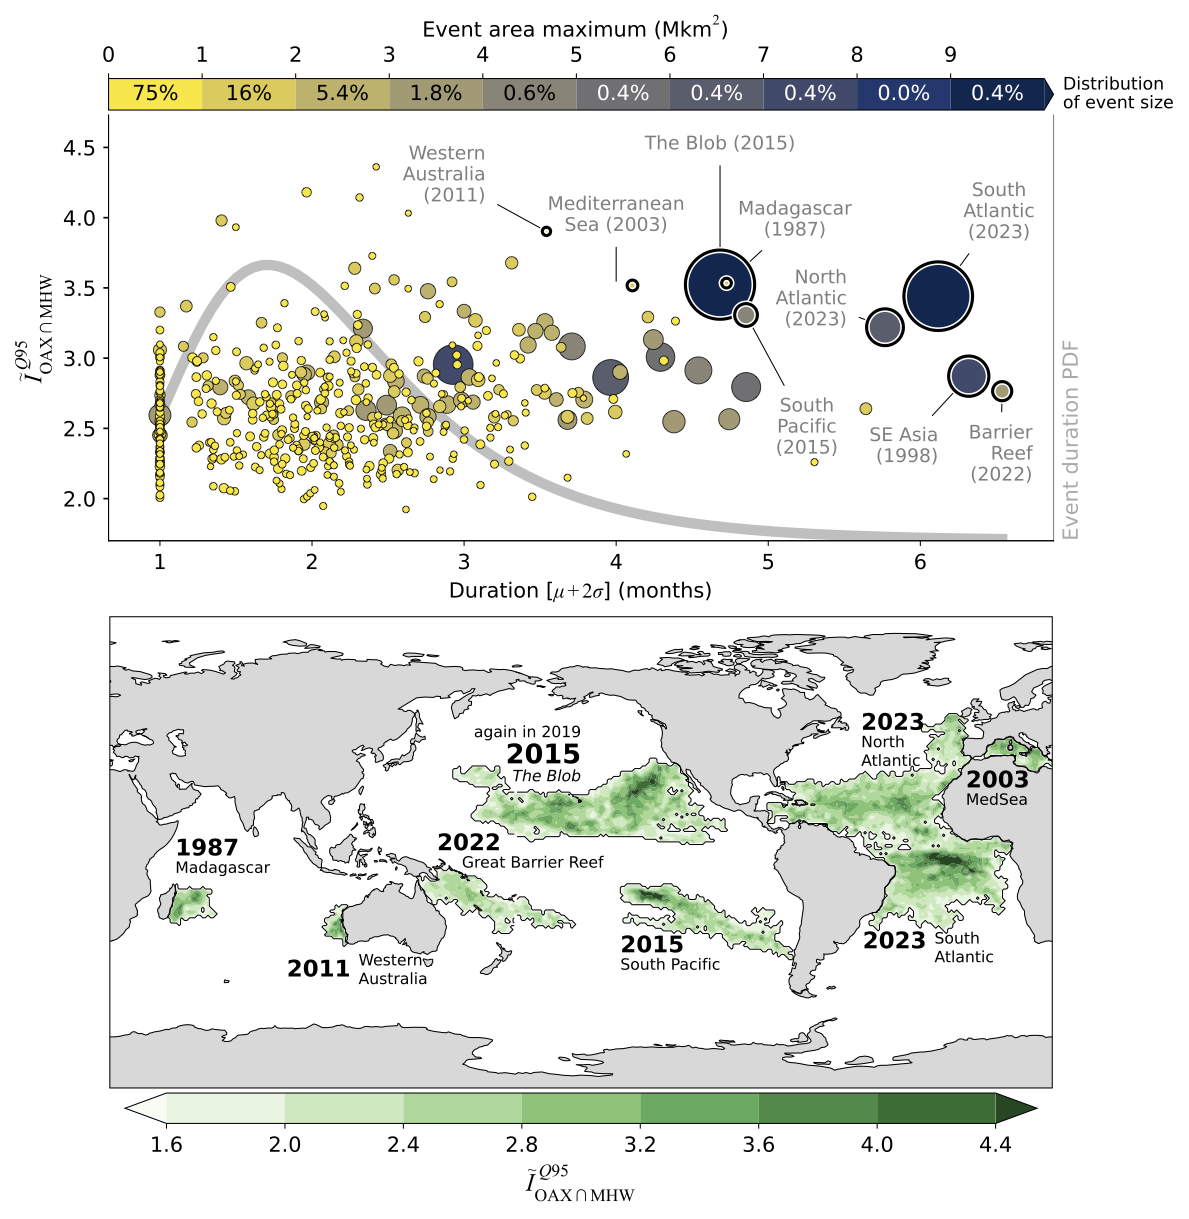
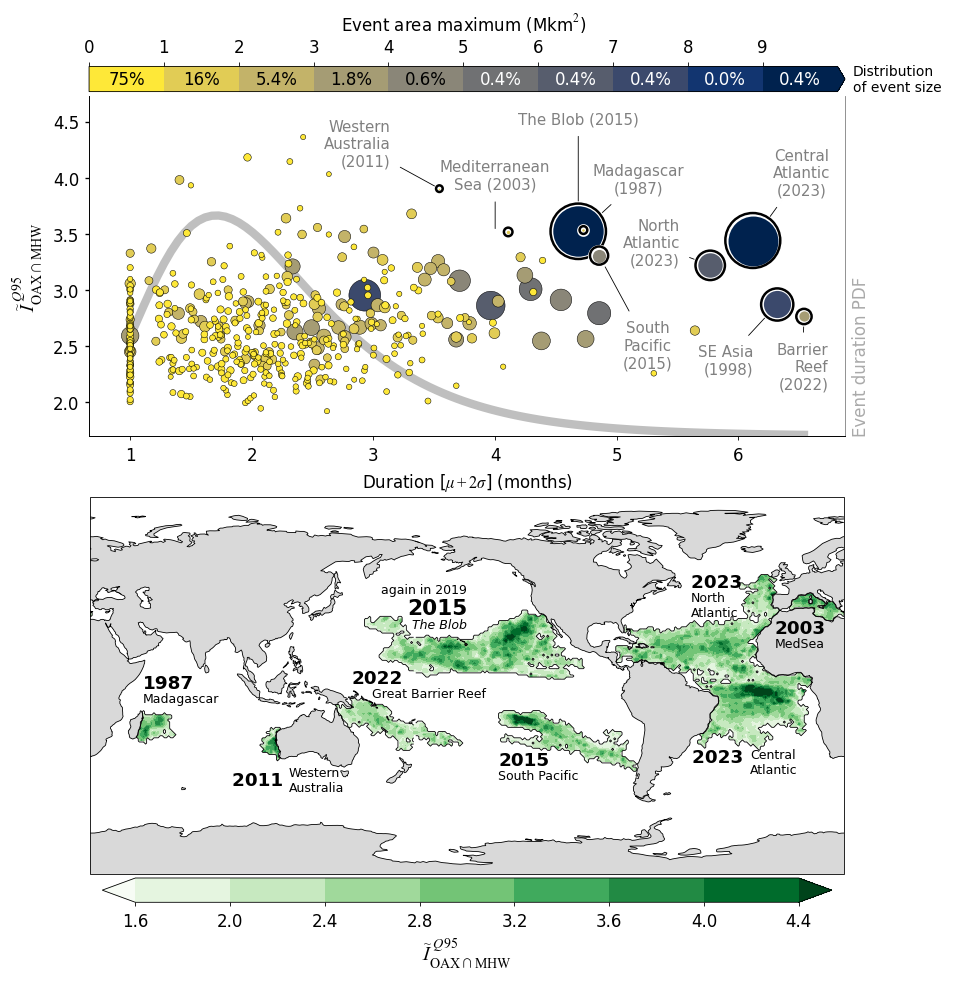
Update figure annotations for Central Atlantic in visualization

diff --git a/scripts/6_figures_mo.py b/scripts/6_figures_mo.py
@@ -857,7 +857,7 @@ def _(data, df_event_stats):
             dict(idx=26, text="Madagascar\n(1987)", dx=0.45, dy=0.45, ha="center"),
             dict(idx=435, text="Barrier\nReef\n(2022)", dx=0.2, dy=-0.45, ha="right"),
             dict(idx=450, text="North\nAtlantic\n(2023)", dx=-0.25, dy=0.2, ha="right"),
-            dict(idx=460, text="South\nAtlantic\n(2023)", dx=0.4, dy=0.6, ha="center"),
+            dict(idx=460, text="Central\nAtlantic\n(2023)", dx=0.4, dy=0.6, ha="center"),
         ]
 
         event_idxs: list[int] = [v["idx"] for v in fig6_chosen_events]
@@ -981,7 +981,7 @@ def _(data, df_event_stats):
 
         _props = dict(transform=crs.PlateCarree(), va="center")
         axs6[1].text(-20, -30, "2023 ", **bf | _props | {"ha": "right", "va": "top"})
-        axs6[1].text(-20, -30, "South\nAtlantic", **sf | _props | dict(ha="left", va="top"))
+        axs6[1].text(-20, -30, "Central\nAtlantic", **sf | _props | dict(ha="left", va="top"))
 
         _props = dict(transform=crs.PlateCarree(), va="center")
         axs6[1].text(120, -45, "2011 ", **bf | _props | dict(ha="right"))
@@ -995,7 +995,7 @@ def _(data, df_event_stats):
         axs6[1].set_extent([-180, 180, -90, 90], crs=crs.PlateCarree())  # type: ignore
 
     if "collapse_save_figure":
-        # fig6.savefig(root / "figures/figure6-with_annotations.pdf", bbox_inches="tight")
+        fig6.savefig(root / "figures/figure6-with_annotations.pdf", bbox_inches="tight")
         fig6.savefig(root / "figures/figure6-with_annotations.png", bbox_inches="tight", dpi=120)
         ...
     fig6
